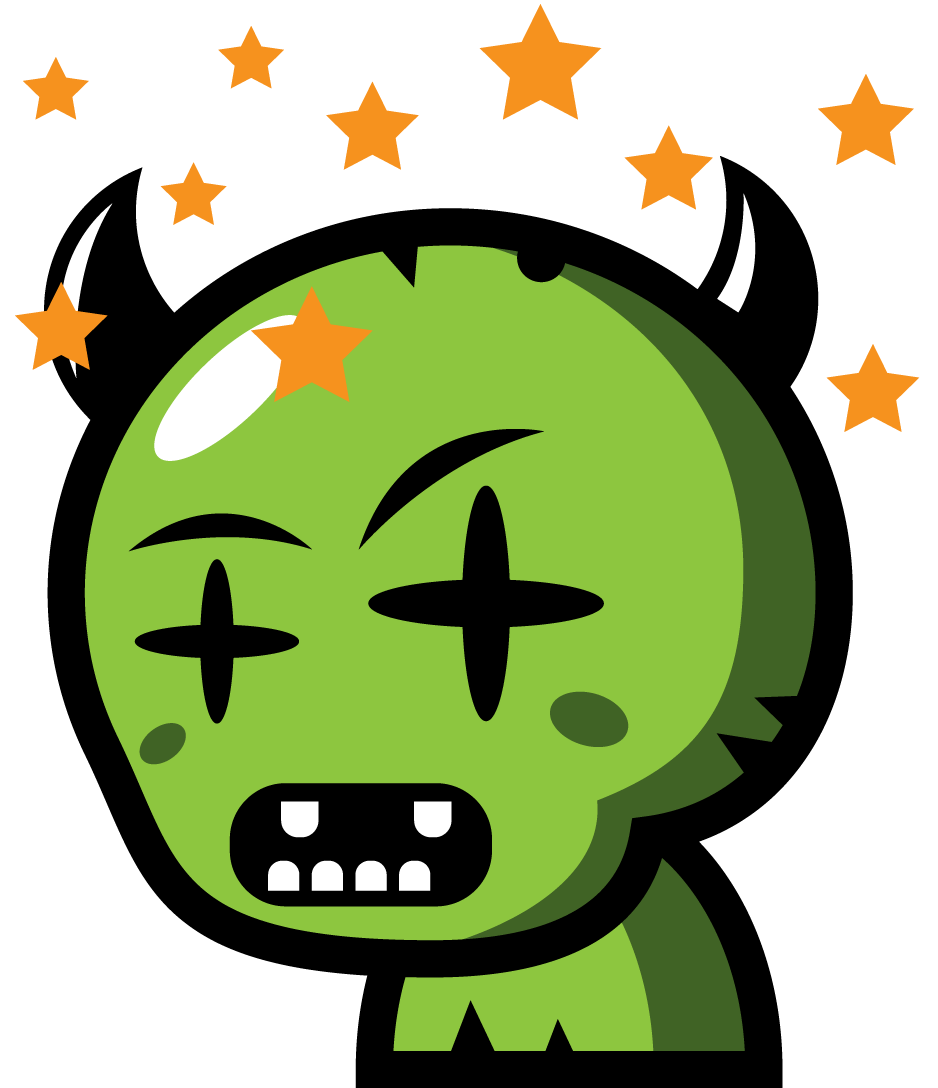
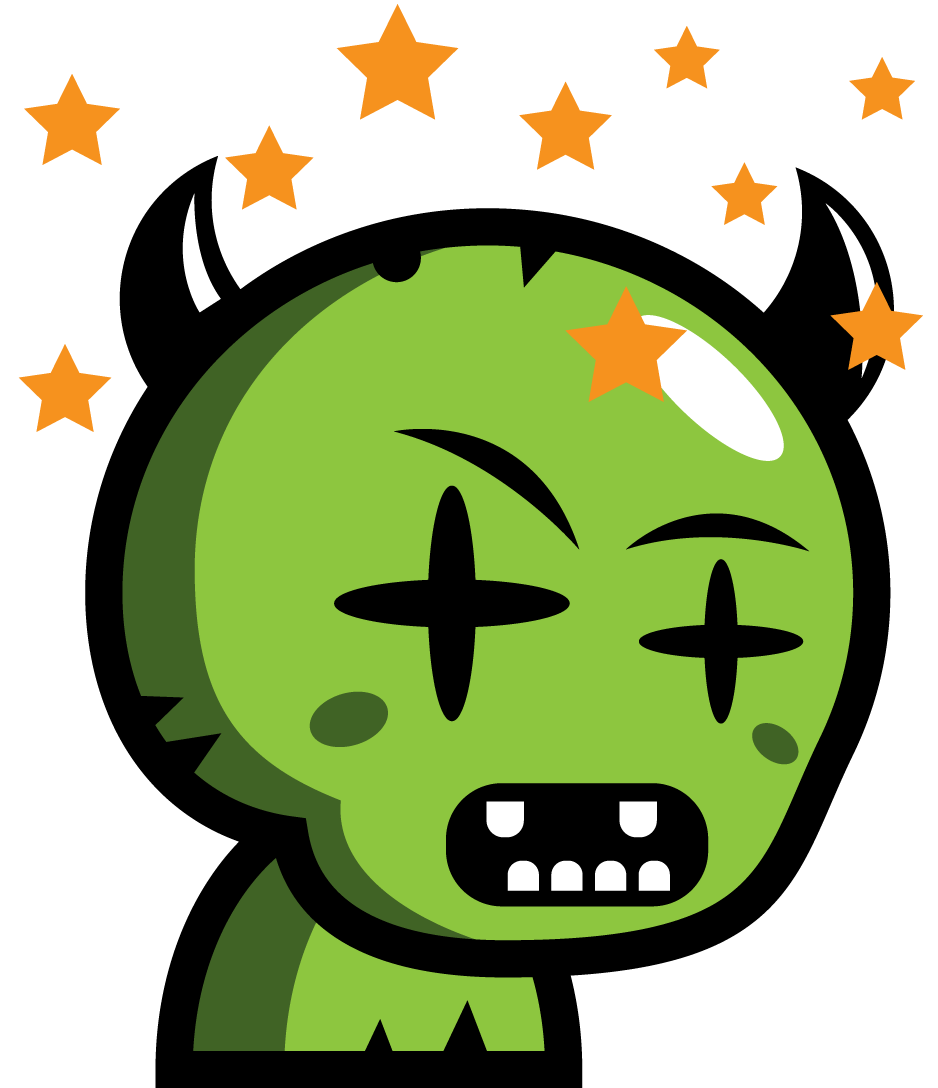
Have zombies start facing each other and set degree offsets accordingly

diff --git a/TankGame/src/tankgame/game/Tank.java b/TankGame/src/tankgame/game/Tank.java
@@ -28,6 +28,7 @@ public class Tank {
     private BufferedImage img; // don't want it static atm because need two tanks that look different
     private BufferedImage bulletImg;
     private List<Bullet> bullets = new ArrayList<>();
+    private float facingOffset = 0f;
 
     Tank(float x, float y, float vx, float vy, float angle, BufferedImage img) {
         this.x = x;
@@ -142,8 +143,16 @@ public class Tank {
     }
 
     public void fire() {
-        float bulletX = x + img.getWidth() / 2f - bulletImg.getWidth() / 2f;
-        float bulletY = y + img.getHeight() / 2f - bulletImg.getHeight() / 2f;
-        bullets.add(new Bullet(bulletX, bulletY, angle, bulletImg));
+        float bulletAngle = (angle + facingOffset + 360) % 360;
+        float spawnDistance = img.getHeight() / 2f;
+        float bulletX = x + img.getWidth() / 2f - bulletImg.getWidth() / 2f +
+                (float)(spawnDistance * Math.cos(Math.toRadians(bulletAngle)));
+        float bulletY = y + img.getHeight() / 2f - bulletImg.getHeight() / 2f +
+                (float)(spawnDistance * Math.sin(Math.toRadians(bulletAngle)));
+        bullets.add(new Bullet(bulletX, bulletY, bulletAngle, bulletImg));
+    }
+
+    public void setFacingOffset(float offset) {
+        this.facingOffset = offset;
     }
 }

diff --git a/TankGame/src/tankgame/game/GameWorld.java b/TankGame/src/tankgame/game/GameWorld.java
@@ -81,6 +81,7 @@ public class GameWorld extends JPanel implements Runnable {
         }
         zombie1 = new Tank(300, 350, 0, 0, (short) 0, z1img);
         zombie2 = new Tank(600, 350, 0, 0, (short) 0, z2img);
+        zombie2.setFacingOffset(180);
         zombie1.setBulletImage(bulletImg);
         zombie2.setBulletImage(bulletImg);
         this.addKeyListener( //  listen to key events on the panel, not the jframe
